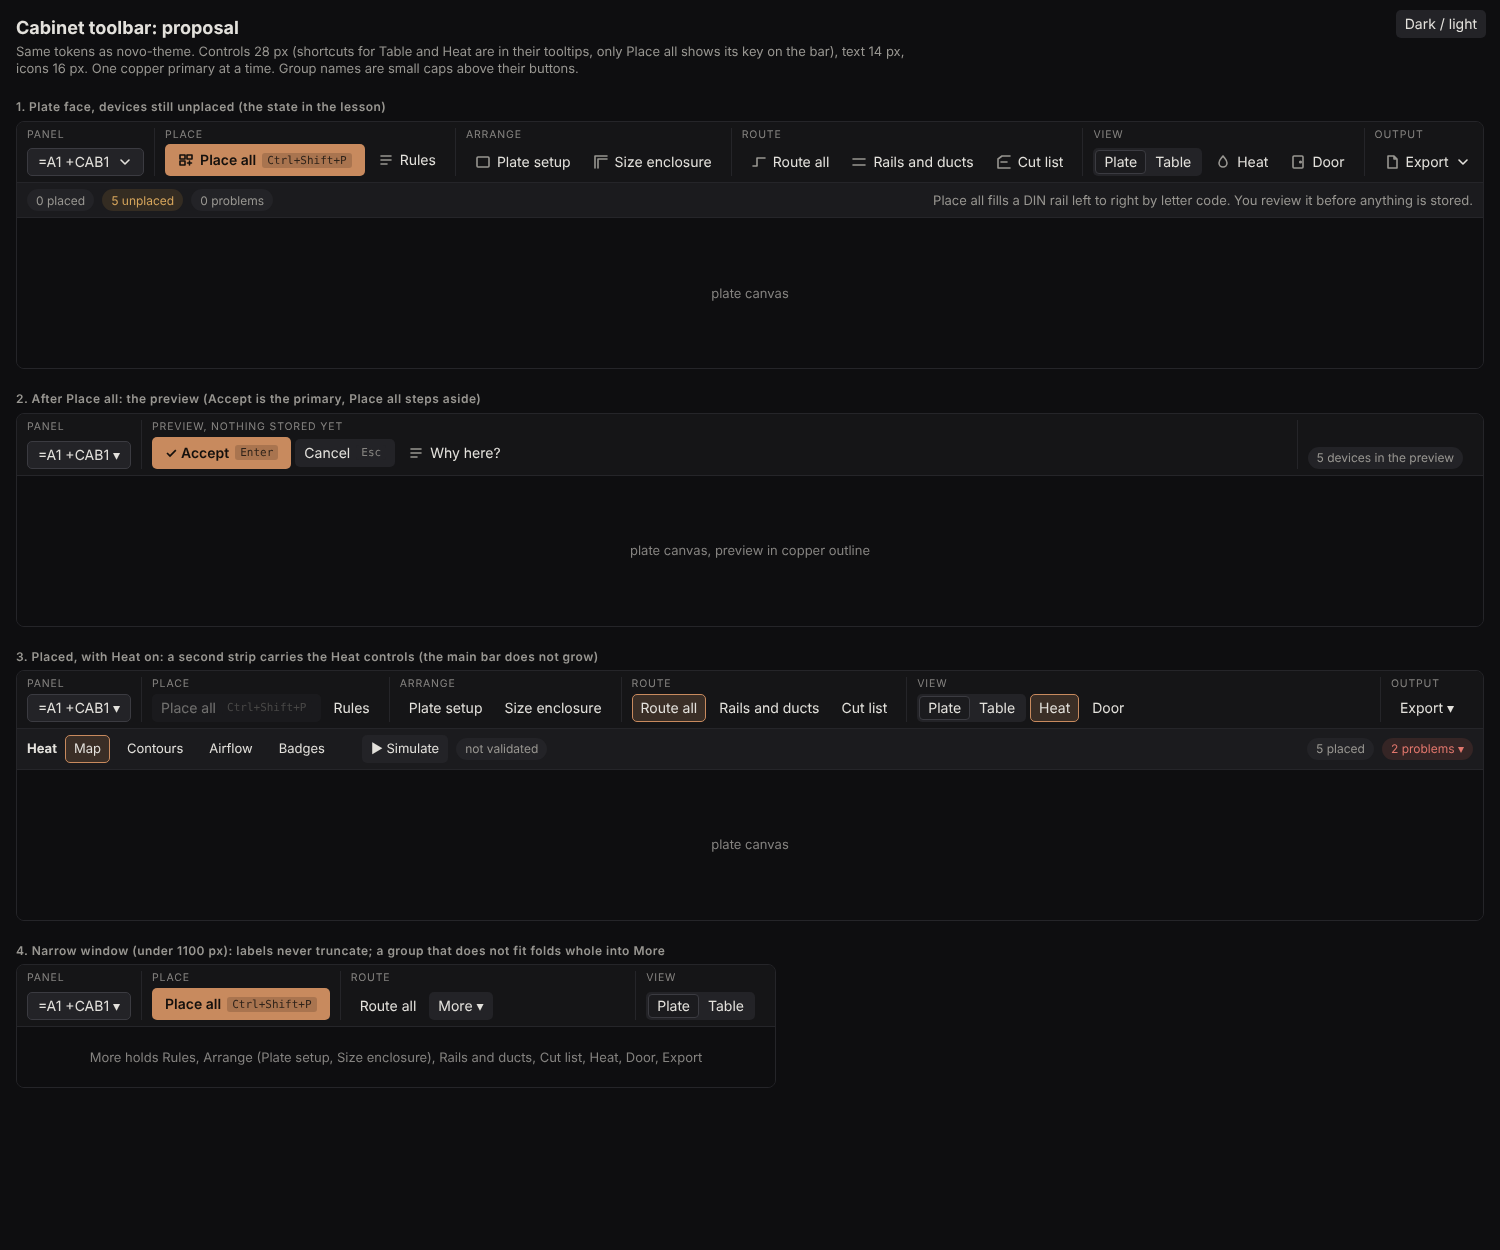
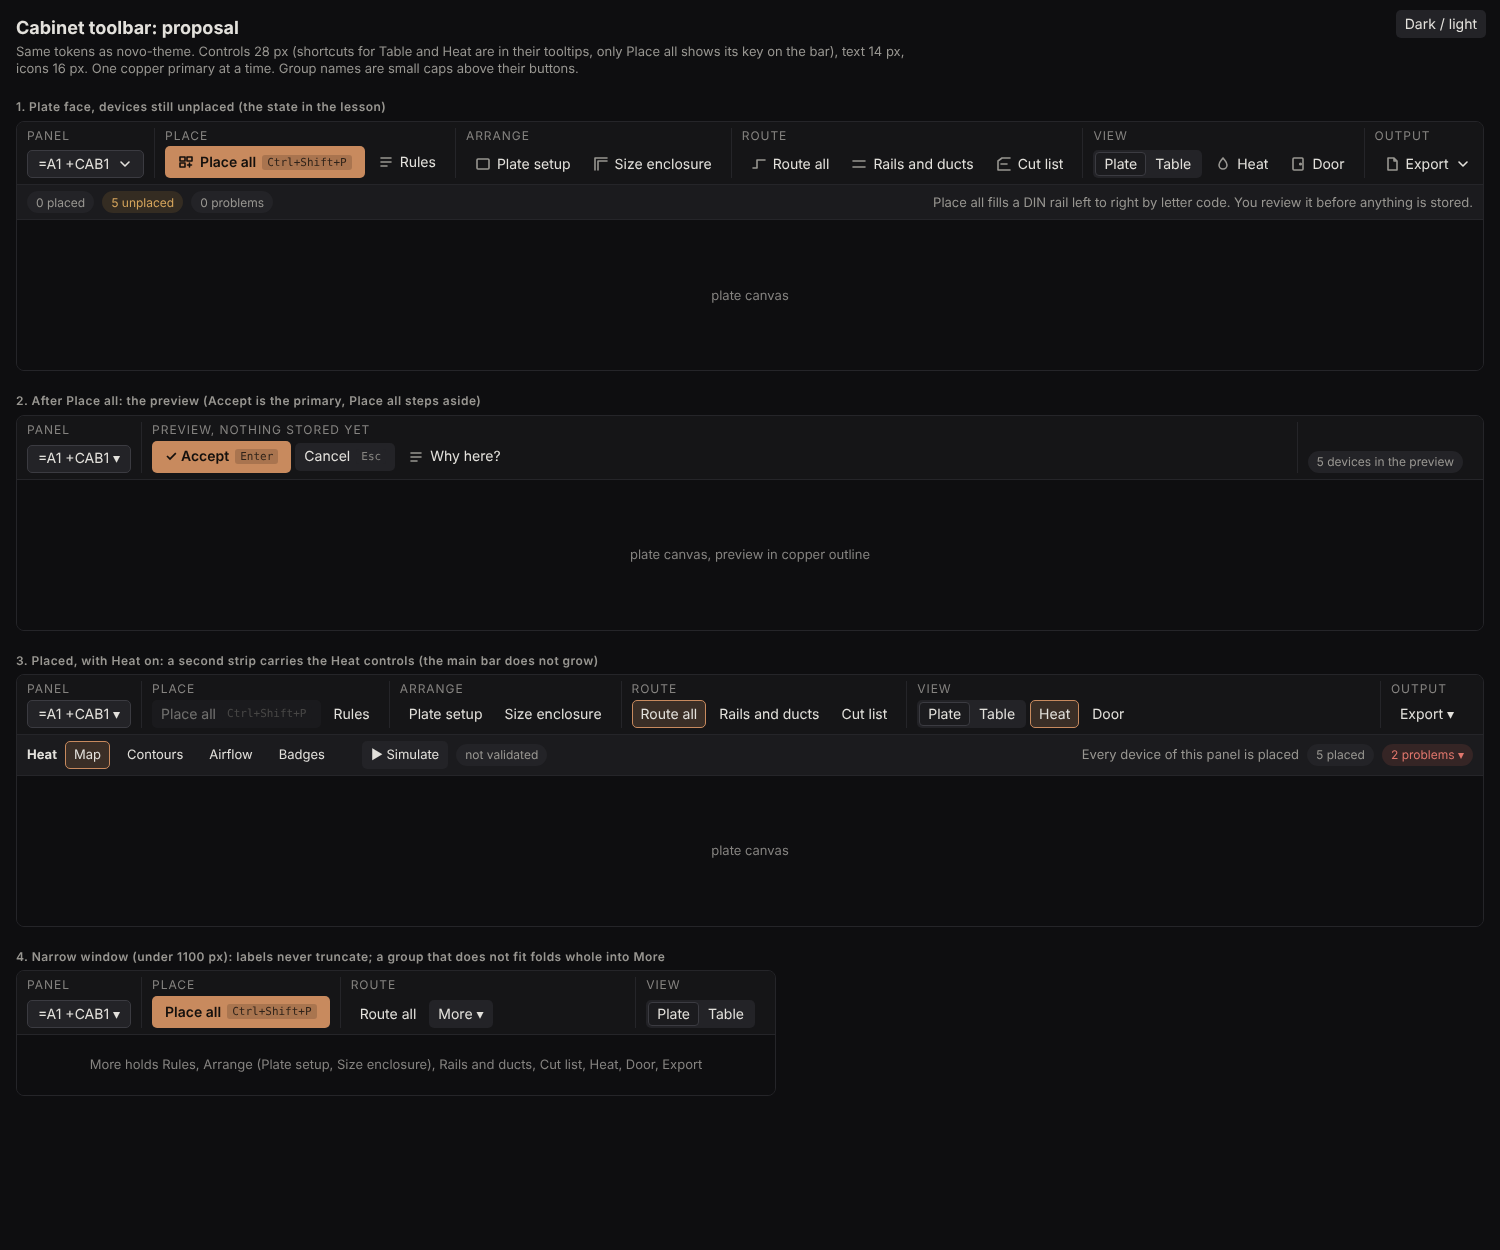
Cabinet toolbar design: reason in status strip, pointer-only focus return, caption size
Claude-Session: https://claude.ai/code/session_014tr2HBBMochu4Fr5mUf5Jp

diff --git a/docs/design/cabinet-toolbar/mock.html b/docs/design/cabinet-toolbar/mock.html
@@ -15,7 +15,7 @@
 .bar{display:flex;align-items:stretch;gap:0;padding:6px 10px;border-bottom:1px solid var(--border);background:var(--panel);min-height:56px}
 .grp{display:flex;flex-direction:column;justify-content:space-between;padding:0 10px;border-left:1px solid var(--border)}
 .grp:first-child{border-left:0;padding-left:0}
-.cap{font-size:10.5px;letter-spacing:.08em;text-transform:uppercase;color:var(--faint);margin-bottom:3px}
+.cap{font-size:12px;letter-spacing:.08em;text-transform:uppercase;color:var(--faint);margin-bottom:3px}
 .row{display:flex;gap:4px;align-items:center}
 .btn{height:28px;display:inline-flex;align-items:center;gap:6px;padding:0 8px;border-radius:5px;border:1px solid transparent;background:transparent;color:var(--text);font:inherit;cursor:pointer;white-space:nowrap}
 .btn:hover{background:var(--hover)}.btn.on{background:var(--wash);border-color:var(--accent);color:var(--text)}
@@ -87,7 +87,7 @@ svg{width:16px;height:16px;stroke:currentColor;fill:none;stroke-width:1.6;stroke
  <div class="grp"><div class="cap">View</div><div class="row"><span class="seg"><button class="btn on">Plate</button><button class="btn">Table</button></span><button class="btn on">Heat</button><button class="btn">Door</button></div></div>
  <div class="sp"></div><div class="grp"><div class="cap">Output</div><div class="row"><button class="btn">Export ▾</button></div></div>
 </div>
-<div class="sub"><b style="color:var(--text)">Heat</b> <button class="btn on">Map</button><button class="btn">Contours</button><button class="btn">Airflow</button><button class="btn">Badges</button><span style="width:12px"></span><button class="btn sec">▶ Simulate</button><span class="pill">not validated</span><span class="sp"></span><span class="pill">5 placed</span><span class="pill err">2 problems ▾</span></div>
+<div class="sub"><b style="color:var(--text)">Heat</b> <button class="btn on">Map</button><button class="btn">Contours</button><button class="btn">Airflow</button><button class="btn">Badges</button><span style="width:12px"></span><button class="btn sec">▶ Simulate</button><span class="pill">not validated</span><span class="sp"></span><span>Every device of this panel is placed</span><span class="pill">5 placed</span><span class="pill err">2 problems ▾</span></div>
 <div class="plate">plate canvas</div></div>
 
 <h2>4. Narrow window (under 1100 px): labels never truncate; a group that does not fit folds whole into More</h2>

diff --git a/docs/design/cabinet-toolbar.md b/docs/design/cabinet-toolbar.md
@@ -16,7 +16,7 @@ ducts button (#612) would add another. It does not scale.
 
 One bar, 56 px high, controls 28 px, text 14 px, icons 16 px (`icon_size::BUTTON`),
 every button icon plus label. Buttons sit in named groups in workflow order,
-each group with a small-caps caption above it (`text_tertiary`):
+each group with a small-caps caption above it (`text_tertiary`, which the Palette guarantees 4.5:1; captions are 12 px at minimum, the mock draws them at 12 px):
 
 | Group | Contents | Notes |
 | --- | --- | --- |
@@ -40,9 +40,9 @@ the toolbar, so the bar holds only things you press.
 - Label says what it does when it is cheap to know: "Place all" stays the
   name (the lessons and the command use it); the tooltip says "Place the 5
   unplaced devices on the DIN rail, you review before it is stored".
-- When everything is placed it is greyed with the reason in the tooltip
-  ("Every device of this panel is placed"), and it keeps its position so the
-  bar does not jump.
+- When everything is placed it is greyed, and it keeps its position so the
+  bar does not jump. The reason is written in the status strip ("Every device
+  of this panel is placed"), not only in the tooltip, so keyboard users see it.
 - While a preview is shown, the Place group becomes **Accept (Enter)**
   (primary) and **Cancel (Esc)**, plus **Why here?** (opens the rule
   explanation that exists today). Place all steps aside; nothing else changes
@@ -71,11 +71,11 @@ they move unchanged.
 
 ### Key and focus rule
 
-The bar never takes keyboard focus away from the plate: clicking a bar button
-returns focus to the canvas, so R, Delete and moving a device keep working
+The bar never takes keyboard focus away from the plate: a pointer click on a bar
+button returns focus to the canvas, so R, Delete and moving a device keep working
 straight after Place all and Accept. (The bug that F1 cannot be clicked and
 moved after Place all is owned by the Cabinet key-bugs thread; this design
-only promises the bar is not the cause.)
+only promises the bar is not the cause.) The rule is for pointer clicks only: Tab and Enter on a button, and opening a menu or the panel picker, keep focus where it is.
 
 ## Where the user finds it
 
@@ -96,4 +96,4 @@ copper button on the left of the bar, or Ctrl+Shift+P, or the command field.
 ## Open questions for the reviewers
 
 - Ctrl+Shift+P as the key for Place all: any conflict in the keymap?
-- Group captions: keep always, or only above 1400 px?
+- Group captions: kept always while they fit; they drop below 1100 px (answered by the design reviewer).
